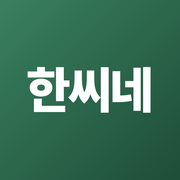
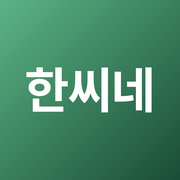
아이콘: 그라데이션 강화·글씨 굵기 한 단계 낮춤(앱 아이콘 바탕도 그라데이션), 위쪽 제목 고딕
Claude-Session: https://claude.ai/code/session_01RXHvG4QLmjWZ6CcgwXX6Er

diff --git a/sw.js b/sw.js
@@ -1,5 +1,5 @@
 /* 서비스 워커: 화면 파일은 네트워크 우선(업데이트 즉시 반영), 끊기면 저장본 사용 */
-const CACHE='hanssine-v32';
+const CACHE='hanssine-v33';
 const FILES=["./", "index.html", "manifest.json", "css/tokens.css", "css/app.css", "js/core/util.js", "js/core/sample-art.js", "js/core/firebase-config.js", "js/core/data.js", "js/core/sync.js", "js/core/media.js", "js/core/push.js", "js/core/ui.js", "js/core/voice.js", "js/core/ai.js", "js/core/weather.js", "js/features/stickers.js", "js/features/chat.js", "js/features/rooms.js", "js/features/unread.js", "js/features/calendar.js", "js/features/anniv.js", "js/features/dues.js", "js/features/bot.js", "js/features/translate.js", "js/features/exercise.js", "js/features/games.js", "js/features/games2.js", "js/features/album.js", "js/features/senior.js", "js/features/home.js", "js/features/settings.js", "js/features/auth.js", "js/main.js", "icons/icon-192.png", "icons/icon-512.png"];
 self.addEventListener('install',e=>{e.waitUntil(caches.open(CACHE).then(c=>c.addAll(FILES)));self.skipWaiting()});
 self.addEventListener('activate',e=>{e.waitUntil(caches.keys().then(ks=>Promise.all(ks.filter(k=>k!==CACHE).map(k=>caches.delete(k)))));self.clients.claim()});

diff --git a/css/app.css b/css/app.css
@@ -33,7 +33,7 @@ h2{font-size:17px;margin:0;text-wrap:balance}
 
 /* top bar */
 .top{display:flex;justify-content:space-between;align-items:center;gap:8px;padding-block:6px 4px}
-.brand{font-family:var(--f-title);font-size:22px}
+.brand{font-family:var(--f-body);font-size:21px;font-weight:700;letter-spacing:-.3px}
 .me{display:flex;align-items:center;gap:6px;border:1px solid var(--line);background:var(--surface);border-radius:999px;padding:4px 10px 4px 4px;font-size:13px}
 .av{width:28px;height:28px;border-radius:50%;display:grid;place-items:center;font-size:13px;font-weight:700;color:#fff;flex:none}
 
